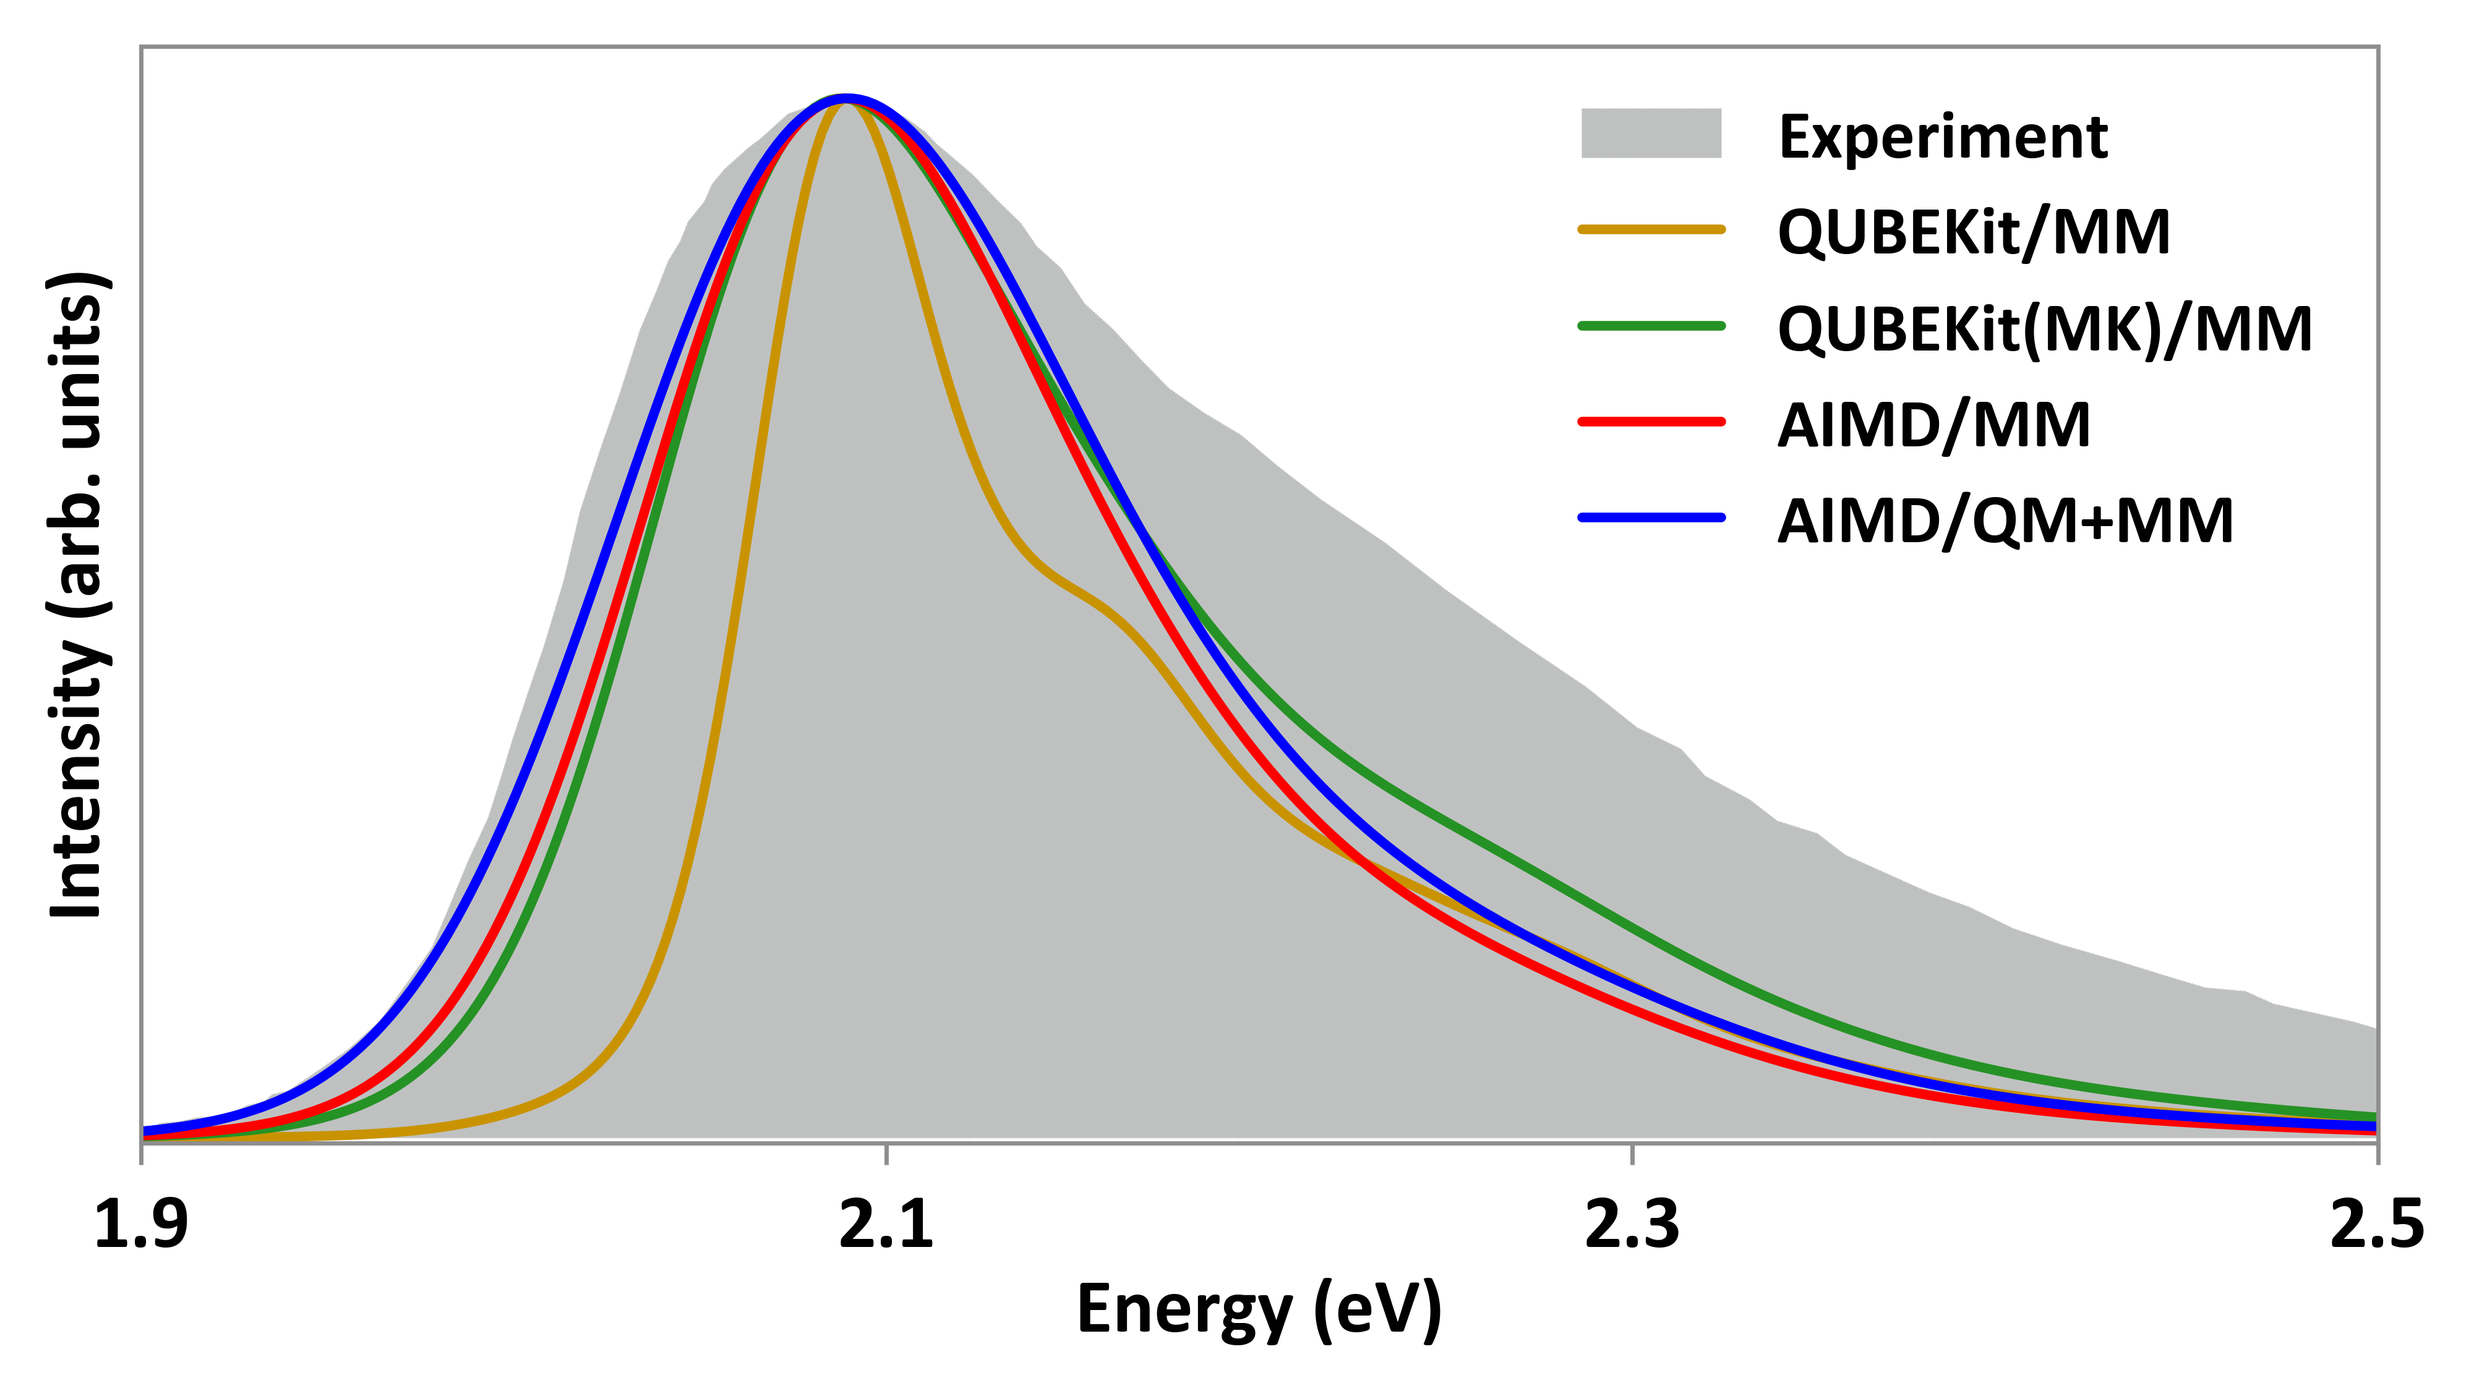
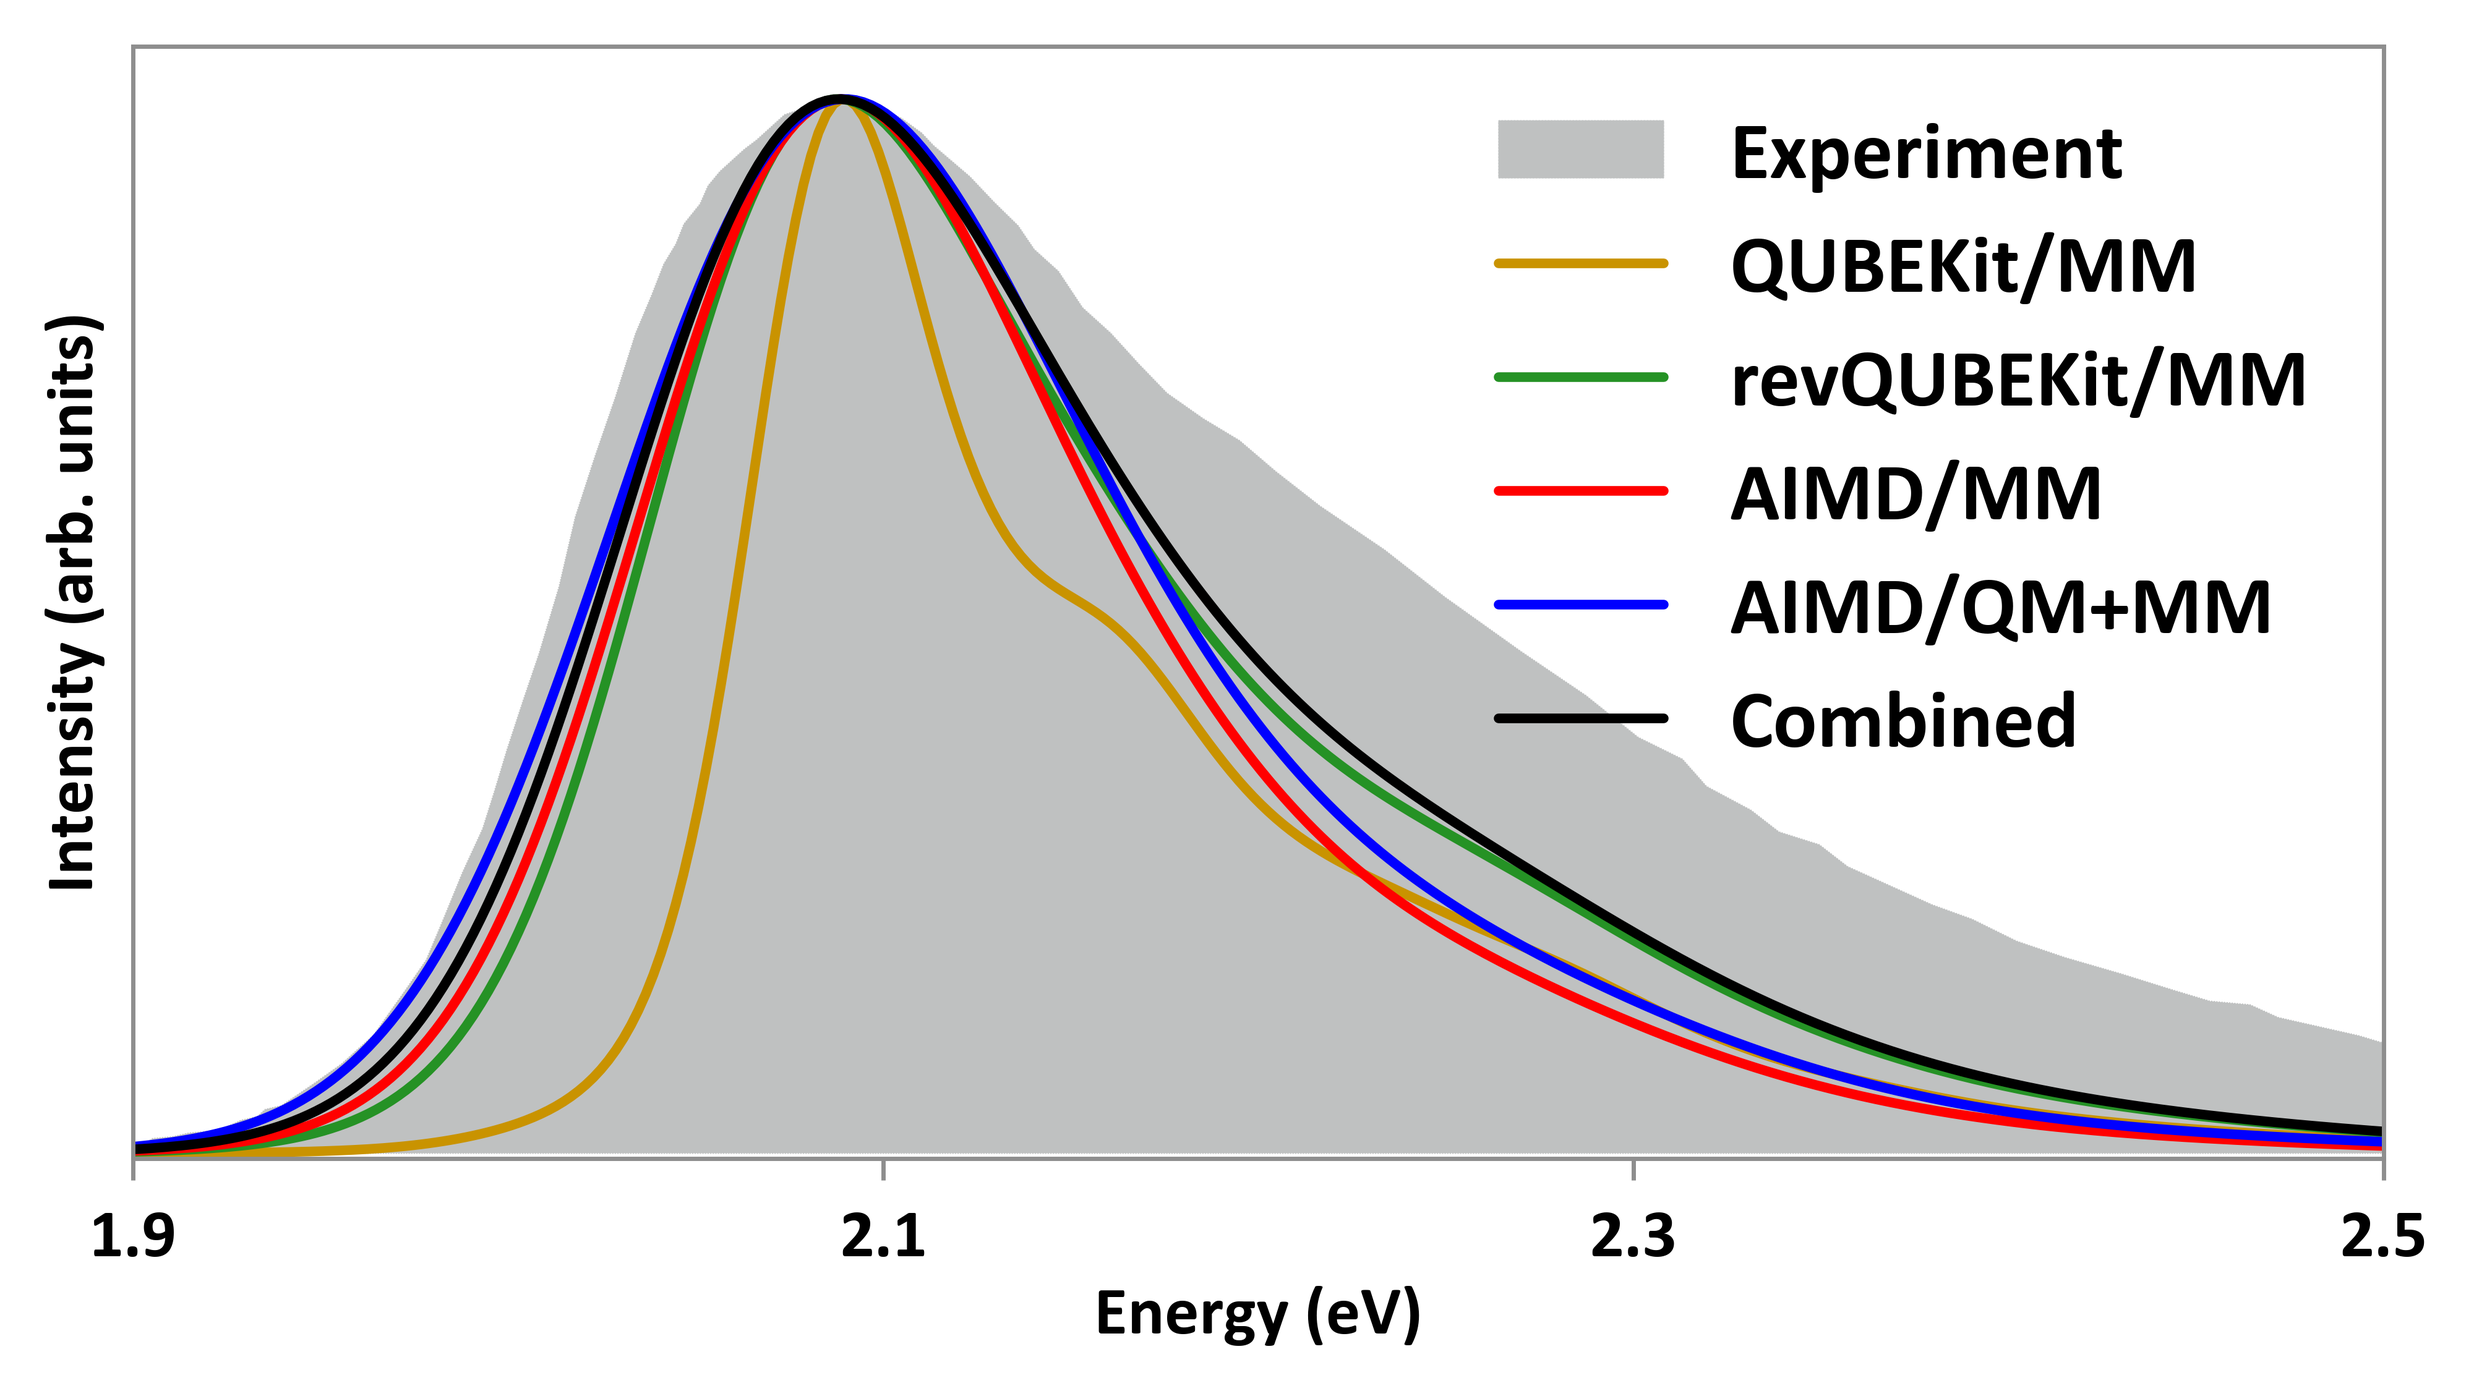
update

diff --git a/compute_stokes_shifts.py b/compute_stokes_shifts.py
@@ -27,8 +27,8 @@ def run():
         join(GS.data_root_dir, 'gs-aimd/mm_4hb_low_freq/vee_MD_spectral_density.dat'),
         join(GS.data_root_dir, 'gs-aimd/mm_star_low_freq/vee_MD_spectral_density.dat'),
         join(GS.data_root_dir, 'gs-aimd/mm_C4_low_freq/vee_MD_spectral_density.dat'),
-        # join(GS.data_root_dir, 'gs-aimd/mm_qm1_low_freq/vee_MD_spectral_density.dat'),
-        # join(GS.data_root_dir, 'gs-aimd/qm2_low_freq/vee_MD_spectral_density.dat'),
+        join(GS.data_root_dir, 'gs-aimd/mm_qm1_low_freq/vee_MD_spectral_density.dat'),
+        join(GS.data_root_dir, 'gs-aimd/qm2_low_freq/vee_MD_spectral_density.dat'),
     ]
     labels = [
         'QUBEKit',
@@ -48,6 +48,8 @@ def run():
         data[0] *= 1
         data[1] *= 1
 
+        print("FILE: ", file.replace('/vee_MD_spectral_density.dat', ''))
+
         J_interp = interp1d(data[0], data[1], kind='cubic')
         # ax.scatter(data[0], data[1], marker='.')
         new_x = np.linspace(0, data[0].max()/1000, 10000)
@@ -57,18 +59,21 @@ def run():
 
 
         #   compute reorganization energy and Stokes shift
-        # integrand = np.zeros_like(data[0])
-        integrand = data[1, 1:]/data[0, 1:]
+        integrand = np.zeros_like(data[0])
+        integrand[1:] = data[1, 1:]/data[0, 1:]
+        integrand[0] = integrand[1]
         # integrand = data[1, 1:]
         # if label == 'QUBEKit' == 0:
         #     integrand *= 2
-        ax.plot(data[0, 1:]*AU_2_CM, integrand, label=label)
-        reorg_engy = simpson(integrand, data[0, 1:])/np.pi
-        print('{:>20s}: {:10.5f}'.format(label, reorg_engy*2*AU_2_EV))
+
+        ax.plot(data[0]*AU_2_CM, integrand, label=label)
+        reorg_engy = simpson(integrand, data[0])/np.pi
+        print('{:>20s}: {:10.5f}'.format(label, reorg_engy*AU_2_EV))
 
     ax.plot((0, new_x.max()), (0, new_x.max()), color='k')
     ax.legend()
-    ax.set_xlim(0, 300)
+    # ax.set_xlim(0, 300)
+    ax.set_ylim(0)
     plt.show()
 
 

diff --git a/SI/plot_unshifted_spectra_solvent.py b/SI/plot_unshifted_spectra_solvent.py
@@ -16,19 +16,18 @@ def plot_on_axes(ax):
     labels = [
         'QM+MM',
         'Full MM',
-        '4 Axial Solvent',
         '1 Axial HB',
+        '4 Axial Solvent',
         '4 Peripheral HB',
         'Stripped'
     ]
-    colors = ['blue', 'red', 'orange', '#D321FF', '#21ADEF', 'black']
+    colors = ['blue', 'red', '#D321FF', 'orange', '#21ADEF', 'black']
 
-    exp_data = np.loadtxt('experimental_abs.txt').T
-    ax.fill_between(exp_data[0], 0, exp_data[1], color='#BFC1C1', linestyle=(0, (1, 1)), label='Experiment')
+    exp_data = np.loadtxt('../experimental_abs.txt').T
+    # ax.fill_between(exp_data[0], 0, exp_data[1], color='#BFC1C1', linestyle=(0, (1, 1)), label='Experiment')
 
     max_loc = exp_data[0][np.argmax(exp_data[1])]
     for file, label, color in zip(plot_files, labels, colors):
-        print(file)
         data = np.loadtxt(file).T
         data[1] /= data[1].max()
 
@@ -36,7 +35,8 @@ def plot_on_axes(ax):
             max_loc = data[0][data[1].argmax()]
         else:
             this_max = data[0][data[1].argmax()]
-            data[0] -= (this_max - max_loc)
+            energy_shift = (this_max - max_loc)
+            print('{:20s}: {:.5f}'.format(label, energy_shift))
 
         ax.plot(data[0], data[1], label=label, color=color)
 
@@ -44,14 +44,14 @@ def plot_on_axes(ax):
     ax.set_xlabel('Energy (eV)')
     ax.set_ylabel('Intensity (arb. units)')
     ax.set_ylim(-0.005, 1.05)
-    ax.set_xlim(1.9, 2.5)
+    ax.set_xlim(2.6, 3.5)
     ax.set_yticks([])
     # ax.set_xticks([1.5, 1.7, 1.9, 2.1, 2.3, 2.5])
-    ax.set_xticks([1.9, 2.1, 2.3, 2.5])
+    # ax.set_xticks([1.9, 2.1, 2.3, 2.5])
 
 if __name__ == '__main__':
-    fig, ax = plt.subplots(figsize=(8.0,4.5))
+    fig, ax = plt.subplots(figsize=(6.0,4.5))
     plot_on_axes(ax)
     fig.tight_layout()
-    fig.savefig('png/abs_spectra_solvent.png', dpi=500)
+    fig.savefig('png/unshifted_spectra_solvent.png', dpi=500)
     plt.show()

diff --git a/plot_time_resolved_lowFreq.py b/plot_time_resolved_lowFreq.py
@@ -21,18 +21,19 @@ rcParams = {
 time_step = 4
 time_between_steps = (100) #  in fempto seconds
 spectra_files = (
-        join(GS.data_root_dir, 'time_resolved/gs-aimd_lowFreq/stripped/spectra_data.npy'), 
+        # join(GS.data_root_dir, 'time_resolved/gs-aimd_lowFreq/stripped/spectra_data.npy'), 
         join(GS.data_root_dir, 'time_resolved/gs-aimd_lowFreq/mm_star/spectra_data.npy'), 
         join(GS.data_root_dir, 'time_resolved/gs-aimd_lowFreq/mm_C4/spectra_data.npy'), 
         join(GS.data_root_dir, 'time_resolved/gs-aimd_lowFreq/mm_qm1/spectra_data.npy'), 
-        join(GS.data_root_dir, 'time_resolved/gs-aimd_lowFreq/qm2/spectra_data.npy'),
+        # join(GS.data_root_dir, 'time_resolved/gs-aimd_lowFreq/qm2/spectra_data.npy'),
     )
 # spectra_files = spectra_files[0:2]
-titles = ('Stripped', 
-          '1 Axial HB', 
-          '4 Axial Solvent', 
-          'Full MM', 
-          'QM+MM',
+titles = (
+        # 'Stripped', 
+        '1 Axial HB', 
+        '4 Axial Solvent', 
+        'Full MM', 
+        # 'QM+MM',
         )
 
 def plot_on_axes(ax_grid, actually_plot=True):
@@ -94,10 +95,10 @@ if __name__ == "__main__":
     length = 1.5*len(spectra_files) + 0.5
     figsize = np.array((length, 2.9))*1.2
     fig, ax_grid = plt.subplots(1, len(spectra_files), figsize=figsize, sharey=True)
-    plot_on_axes(ax_grid, actually_plot=False)
+    plot_on_axes(ax_grid, actually_plot=True)
     fig.supxlabel('Energy (eV)')
     fig.tight_layout()
-    fig.subplots_adjust(left=0.084, bottom=0.205, right=0.987, top=0.917, wspace=0.06, hspace=0.2)
+    fig.subplots_adjust(left=0.114, bottom=0.205, right=0.987, top=0.917, wspace=0.06, hspace=0.2)
 
     plt.subplots_adjust(wspace=0.08)    #   space between subplots
     fig.savefig('png/time_resolved_lowFreq.png', dpi=500)

diff --git a/SI/plot_unshifted_spectra_models.py b/SI/plot_unshifted_spectra_models.py
@@ -21,10 +21,10 @@ def plot_on_axes(ax: plt.Axes) -> list:
 
     plots = []
 
-    exp_data = np.loadtxt('experimental_abs.txt').T
+    exp_data = np.loadtxt('../experimental_abs.txt').T
     # ax.plot(exp_data[0], exp_data[1], color='grey', linestyle=(0, (1, 1)), label='Experiment')
-    fill = ax.fill_between(exp_data[0], 0, exp_data[1], color='#BFC1C1', linestyle=(0, (1, 1)), label='Experiment')
-    plots.append(fill)
+    # fill = ax.fill_between(exp_data[0], 0, exp_data[1], color='#BFC1C1', linestyle=(0, (1, 1)), label='Experiment')
+    # plots.append(fill)
 
     max_loc = exp_data[0][np.argmax(exp_data[1])]
     for file, label, color in zip(plot_files, labels, colors):
@@ -35,7 +35,8 @@ def plot_on_axes(ax: plt.Axes) -> list:
             max_loc = data[0][data[1].argmax()]
         else:
             this_max = data[0][data[1].argmax()]
-            data[0] -= (this_max - max_loc)
+            energy_shift = (this_max - max_loc)
+            print('{:20s}: {:.5f}'.format(label, energy_shift))
 
         line = ax.plot(data[0], data[1], label=label, color=color)
         plots.append(line[0])
@@ -44,15 +45,15 @@ def plot_on_axes(ax: plt.Axes) -> list:
     ax.set_xlabel('Energy (eV)')
     ax.set_ylabel('Intensity (arb. units)')
     ax.set_ylim(-0.005, 1.05)
-    ax.set_xlim(1.9, 2.5)
+    ax.set_xlim(2.6, 3.5)
     ax.set_yticks([])
     # ax.set_xticks([1.5, 1.7, 1.9, 2.1, 2.3, 2.5])
-    ax.set_xticks([1.9, 2.1, 2.3, 2.5])
+    # ax.set_xticks([1.9, 2.1, 2.3, 2.5])
 
     return plots
 
 if __name__ == "__main__":
-    fig, ax = plt.subplots(figsize=(8.0,4.5))
+    fig, ax = plt.subplots(figsize=(6.0,4.5))
     plot_on_axes(ax)
     ax.legend(loc='upper right', fontsize=plt.rcParams['axes.labelsize']*0.9)
     fig.tight_layout()

diff --git a/hbonds/plot_hbonds_with_error.py b/hbonds/plot_hbonds_with_error.py
@@ -26,12 +26,15 @@ keys = list(data2.keys())
 for key in keys:
     data["MK_" + key] = data2[key]
 
-labels = {'Amine_as_an_Acceptor':       'AIMD/Acceptor', 
-          'Amine_as_a_Donor':           'AIMD/Donor', 
-          'Amine_as_an_Donor_(FF)':     'QUBEKit/Donor', 
-          'MK_Amine_as_an_Acceptor':    'revQUBEKit/Acceptor', 
-          'MK_Amine_as_a_Donor':        'revQUBEKit/Donor',
+labels = {'Amine_as_an_Acceptor':       'AIMD/Peripheral', 
+          'Amine_as_a_Donor':           'AIMD/Axial', 
+          'Amine_as_an_Donor_(FF)':     'QUBEKit/Axial', 
+          'MK_Amine_as_an_Acceptor':    'revQUBEKit/Peripheral', 
+          'MK_Amine_as_a_Donor':        'revQUBEKit/Axial',
           }
+colors = ['#E03223', '#E03223', '#4D943C', '#4D943C', '#C99300']
+linestyles = [ 'dotted', '-', 'dotted', '-', '-']
+
 #   time to start trajectory at, in picoseconds 
 start_times = [20, 20, 0, 0, 20]
 saved_data = {}
@@ -58,8 +61,8 @@ for i, key in enumerate(('Amine_as_an_Acceptor', 'Amine_as_a_Donor', 'MK_Amine_a
         avg_dist[0:10000] = np.nan
         std_dist[0:10000] = np.nan
 
-    avg_plt, = ax1.plot(time, avg_dist, label=label)
-    std_plt, = ax2.plot(time, std_dist, label=label)
+    avg_plt, = ax1.plot(time, avg_dist, label=label, color=colors[i], linestyle=linestyles[i])
+    std_plt, = ax2.plot(time, std_dist, label=label, color=colors[i], linestyle=linestyles[i])
 
     #   this was before we realized that the data had a bunch of NaN's
     # if key == 'MK_Amine_as_an_Acceptor':

diff --git a/plot_abs_spectra_models.py b/plot_abs_spectra_models.py
@@ -10,14 +10,16 @@ def plot_on_axes(ax: plt.Axes) -> list:
         os.path.join(GS.data_root_dir, 'gs-ffmd-MZ/mm_qm1/vee_MD_cumulant_spectrum.dat'),
         os.path.join(GS.data_root_dir, 'gs-aimd/mm_qm1/vee_MD_cumulant_spectrum.dat'),
         os.path.join(GS.data_root_dir, 'gs-aimd/qm2/vee_MD_cumulant_spectrum.dat'),
+        # 'other/abs_spectra_from_combined.dat'
     ]
     labels = [
         'QUBEKit/MM',
         'revQUBEKit/MM',
         'AIMD/MM',
         'AIMD/QM+MM',
+        'Combined'
     ]
-    colors = ['#C99300', '#259225', 'red', 'Blue']
+    colors = ['#C99300', '#259225', 'red', 'Blue', 'black']
 
     plots = []
 
@@ -54,7 +56,7 @@ def plot_on_axes(ax: plt.Axes) -> list:
 if __name__ == "__main__":
     fig, ax = plt.subplots(figsize=(8.0,4.5))
     plot_on_axes(ax)
-    ax.legend(loc='upper right', fontsize=plt.rcParams['axes.labelsize']*0.9)
+    ax.legend(loc='upper right', fontsize=plt.rcParams['axes.labelsize']*1.2)
     fig.tight_layout()
     fig.savefig('png/abs_spectra_models.png', dpi=500)
     plt.show()

diff --git a/PES/plot_both.py b/PES/plot_both.py
@@ -15,7 +15,7 @@ rcParams = {
 }
 plt.rcParams.update(rcParams)
 
-fig, (ax1, ax2) = plt.subplots(2, figsize=(5.5, 8), sharex=True)
+fig, (ax1, ax2) = plt.subplots(2, figsize=(5.5, 8), sharex=False)
 
 # left, bottom, width, height
 plot_moh_acc.plot_on_axes(ax1)
@@ -25,14 +25,12 @@ plot_moh_don.plot_on_axes(ax2)
 handles, labels = ax1.get_legend_handles_labels()
 fig.legend(handles, labels, loc='upper right', fontsize=fontsize, facecolor='white', framealpha=0.8, frameon=True, bbox_to_anchor=(0.2, 0.44, 0.5, 0.5), edgecolor='white')
 
-
-
 #   add image to plot
 im_donor = plt.imread('pymol_donor.png')
 im_acceptor= plt.imread('pymol_acceptor.png')
 
 #   x, y, width, height
-newax1 = fig.add_axes([0.152, 0.088 ,0.2,0.2], anchor='NE', zorder=1)
+newax1 = fig.add_axes([0.152, 0.086 ,0.2,0.2], anchor='NE', zorder=1)
 newax1.imshow(im_donor)
 newax1.axis('off')
 newax2 = fig.add_axes([0.724, 0.8 ,0.25,0.2], anchor='NE', zorder=1)

diff --git a/PES/plot_moh_acc.py b/PES/plot_moh_acc.py
@@ -6,7 +6,7 @@ def plot_on_axes(ax, plot_legent=False):
     data = np.loadtxt('moh_acceptor_data.txt').T
     # titles = ['MM/MM-QUBEKit', 'MM/MM-QUBEKit(MK)', 'QM/MM (Solvated)', 'CAM-B3LYP/6-31G*']
     titles = ['QUBEKit/MM', 'revQUBEKit/MM', 'AIMD/MM', 'AIMD/MM+QM']
-    colors = ['#BA6023', '#4D943C', '#E03223', '#0101F5']
+    colors = ['#C99300', '#4D943C', '#E03223', '#0101F5']
 
     for i, y in enumerate(data[1:]):
         ax.plot(data[0], y/4.184, label=titles[i], color=colors[i])
@@ -15,7 +15,7 @@ def plot_on_axes(ax, plot_legent=False):
     ax.set_xlim(1.3, 2.3)
     ax.set_ylim(-16, 2)
     ax.set_yticks(np.arange(-16, 2, 2))
-    ax.set_xlabel('N - H Distance (Ang.)')
+    ax.set_xlabel('O - H Distance (Ang.)')
     ax.set_ylabel('Interaction Energy (kCal/mol)')
     # ax.set_xticklabels(ax.get_xticks(), rotation=0, weight='bold', size=12)
     if plot_legent:

diff --git a/plot_spectral_density_solvent.py b/plot_spectral_density_solvent.py
@@ -23,12 +23,12 @@ def plot_on_axes(fig, ax, inset_dims=[0.52, 0.55, 0.4, 0.35]):
     labels = [
         'QM+MM',
         'Full MM',
-        '1 Axial HB',
         '4 Axial Solvent',
+        '1 Axial HB',
         '4 Peripheral HB',
         'Stripped'
     ]
-    colors = ['blue', 'red', '#D321FF', 'orange', '#21ADEF', 'black']
+    colors = ['blue', 'red', 'orange', '#D321FF', '#21ADEF', 'black']
 
     # max_loc = exp_data[0][np.argmax(exp_data[1])]
     for file, label, color in zip(plot_files, labels, colors):

diff --git a/PES/plot_moh_don.py b/PES/plot_moh_don.py
@@ -6,7 +6,7 @@ def plot_on_axes(ax, plot_legend=False):
     data = np.loadtxt('moh_donor_data.txt').T
     # titles = ['MM/MM-QUBEKit', 'MM/MM-QUBEKit(MK)', 'QM/MM (Solvated)', 'CAM-B3LYP/6-31G*']
     titles = ['QUBEKit/QM1', 'QUBEKit(MK)/QM1', 'AIMD/QM1', 'AIMD/QM2']
-    colors = ['#BA6023', '#4D943C', '#E03223', '#0101F5']
+    colors = ['#C99300', '#4D943C', '#E03223', '#0101F5']
 
     for i, y in enumerate(data[1:]):
         ax.plot(data[0], y/4.184, label=titles[i], color=colors[i])

diff --git a/SI/global_settings.py b/SI/global_settings.py
@@ -1,0 +1,10 @@
+import matplotlib.pyplot as plt
+import os
+
+script_dir = os.path.abspath(os.path.dirname(__file__))
+plt.style.use(script_dir + '/style.mplstyle')
+
+data_root_dir = '/Users/cmyers/Library/CloudStorage/OneDrive-UniversityofCaliforniaMerced/crysel_violet/spectra/'
+# data_root_dir = 'C:\\Users\\chris\\OneDrive - University of California Merced\\crysel_violet\\spectra'
+
+os.makedirs('png', exist_ok=True)
